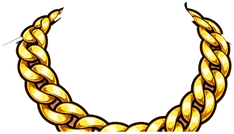
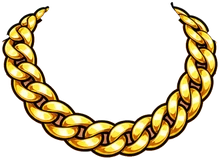
Gold chain: the whole chain (its bottom was cut off)
Claude-Session: https://claude.ai/code/session_01E3jaUxUo8xTQNwyakAWMq3

diff --git a/src/client/preload.ts b/src/client/preload.ts
@@ -9,7 +9,7 @@ import { ASSET_FILES } from "./asset-manifest.ts";
 import { ROOM_BACKDROP, ROOM_BG } from "../content/home-scene.ts";
 
 /** cache-busting versions of redrawn art (bump when the picture changes) */
-export const ART_VER = { heroPart: 8, hair: 7, wear: 14, items: 17, pepe: 2, tattoo: 11, monitor: 2, chair: 5 } as const;
+export const ART_VER = { heroPart: 8, hair: 7, wear: 15, items: 18, pepe: 2, tattoo: 11, monitor: 2, chair: 5 } as const;
 
 /** the URL a screen really requests for a file from the manifest */
 export function usedUrl(path: string): string {

diff --git a/src/client/art/rig-look.ts b/src/client/art/rig-look.ts
@@ -176,10 +176,10 @@ export const WEAR_FIT = {
   },
   "chain-cuban": {
     "slot": "ACCESSORY",
-    "x": 376.0,
-    "y": 279.0,
-    "w": 234,
-    "h": 134
+    "x": 389.5,
+    "y": 281.0,
+    "w": 220,
+    "h": 160
   }
 } as const;
 /** head things that cut the hair under them (the rest are worn over the hair) */
